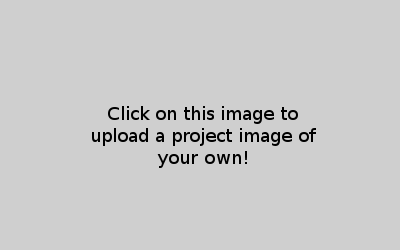
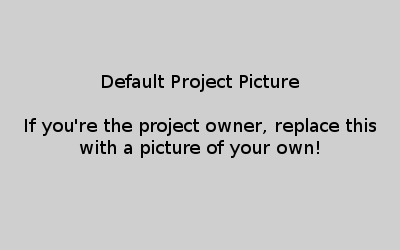
redirected project show to project edit if you're the creator

Changed region(s): [[0.06, 0.42, 0.96, 0.672], [0.24, 0.28, 0.75, 0.364]]

diff --git a/app/assets/javascripts/editproject.js b/app/assets/javascripts/editproject.js
@@ -2,7 +2,7 @@ $(document).ready(function(){
   $('#tieradd').on('click',function(event){
     event.preventDefault();
     var tierid = $('.tiercard').size();
-    $('#tierlist').append("<li class='tiercard'><div class='tiernumber'><img alt='Star' class='starimg' src='/assets/star.png'/><h4 class='inline threshold nopad'>Cost:<textarea id='project_tiers_attributes_" + tierid + "_threshold' name='project[tiers_attributes][" + tierid + "][threshold]'>0</textarea></h4></div><h5 class='remaining'>Quantity<textarea id='project_tiers_attributes_" + tierid + "_initial_quantity' name='project[tiers_attributes][" + tierid + "][initial_quantity]'>0</textarea></h5><p class='tiertext'><textarea id='project_tiers_attributes_" + tierid + "_reward_text' name='project[tiers_attributes][" + tierid + "][reward_text]'>Enter a reward here!</textarea></p><button class='tierdelete'>Remove this tier</button></li>");
+    $('#tierlist').append("<li class='tiercard'><div class='tiernumber'><h5 class='inline threshold nopad'>$ Threshold:<textarea id='project_tiers_attributes_" + tierid + "_threshold' name='project[tiers_attributes][" + tierid + "][threshold]'>0</textarea></h5></div><h4 class='remaining'>Quantity<textarea id='project_tiers_attributes_" + tierid + "_initial_quantity' name='project[tiers_attributes][" + tierid + "][initial_quantity]'>0</textarea></h4><p class='tiertext'><textarea id='project_tiers_attributes_" + tierid + "_reward_text' name='project[tiers_attributes][" + tierid + "][reward_text]'>Enter a reward here!</textarea></p><button class='tierdelete'>Remove this tier</button></li>");
   });
 });
 

diff --git a/app/controllers/projects_controller.rb b/app/controllers/projects_controller.rb
@@ -7,26 +7,21 @@ class ProjectsController < ApplicationController
 
   def show
     @project = Project.find(params[:id])
-    #if current_user
+    if current_user.id == @project.creator_id
+      @creator = @project.creator
+      render "edit"
+    else
       @transaction = @project.transactions.build
-    #end
+    end
   end
 
   def new
     @creator = current_user
     @project = Project.new({
       creator_id: @creator.id,
-      name: "Type your project name here",
-      description: "Type your project description here.",
-      img: ActionController::Base.helpers.asset_path('defaultprojectimage.png')
+      name: "Type your project name here!",
+      description: "Type your project description here! Be specific and reference excellent buzzwords.",
     })
-    # 3.times do |i|
-    #   @project.tiers.build({
-    #     threshold: 0,
-    #     reward_text: "Enter a reward here!",
-    #     initial_quantity: 0
-    #   })
-    # end
     render "edit"
   end
 
@@ -41,6 +36,13 @@ class ProjectsController < ApplicationController
   end
 
   def update
+    @project = Project.find(params[:id])
+
+    if @project.update_attributes(project_params)
+      redirect_to project_path(@project)
+    else
+      render :edit
+    end
   end
 
   def destroy
@@ -49,7 +51,7 @@ class ProjectsController < ApplicationController
   private
 
   def project_params
-    params.require(:project).permit(:name,:goal,:description,:img,:end_date,:min_pledge,:website,:creator_id,tiers_attributes: [:id, :threshold, :reward_text, :initial_quantity])
+    params.require(:project).permit(:name,:goal,:description,:projectpicture,:img,:end_date,:min_pledge,:website,:creator_id,tiers_attributes: [:id, :threshold, :reward_text, :initial_quantity])
   end
 end
 

diff --git a/db/schema.rb b/db/schema.rb
@@ -11,7 +11,7 @@
 #
 # It's strongly recommended that you check this file into your version control system.
 
-ActiveRecord::Schema.define(version: 20131203220623) do
+ActiveRecord::Schema.define(version: 20131205182525) do
 
   # These are extensions that must be enabled in order to support this database
   enable_extension "plpgsql"
@@ -28,6 +28,10 @@ ActiveRecord::Schema.define(version: 20131203220623) do
     t.datetime "updated_at"
     t.integer  "creator_id"
     t.string   "summary"
+    t.string   "projectpicture_file_name"
+    t.string   "projectpicture_content_type"
+    t.integer  "projectpicture_file_size"
+    t.datetime "projectpicture_updated_at"
   end
 
   create_table "tiers", force: true do |t|

diff --git a/app/models/project.rb b/app/models/project.rb
@@ -4,6 +4,7 @@ class Project < ActiveRecord::Base
   has_many :tiers
   accepts_nested_attributes_for :tiers
   has_many :transactions
+  has_attached_file :projectpicture, :styles => { :medium => "400x250>", :thumb => "100x100>" }, :default_url => ActionController::Base.helpers.asset_path('assets/defaultprojectimage.png')
 
   def sum_raised
     total = 0

diff --git a/db/migrate/20131205182525_add_attachment_projectpicture_to_projects.rb b/db/migrate/20131205182525_add_attachment_projectpicture_to_projects.rb
@@ -1,0 +1,11 @@
+class AddAttachmentProjectpictureToProjects < ActiveRecord::Migration
+  def self.up
+    change_table :projects do |t|
+      t.attachment :projectpicture
+    end
+  end
+
+  def self.down
+    drop_attached_file :projects, :projectpicture
+  end
+end
